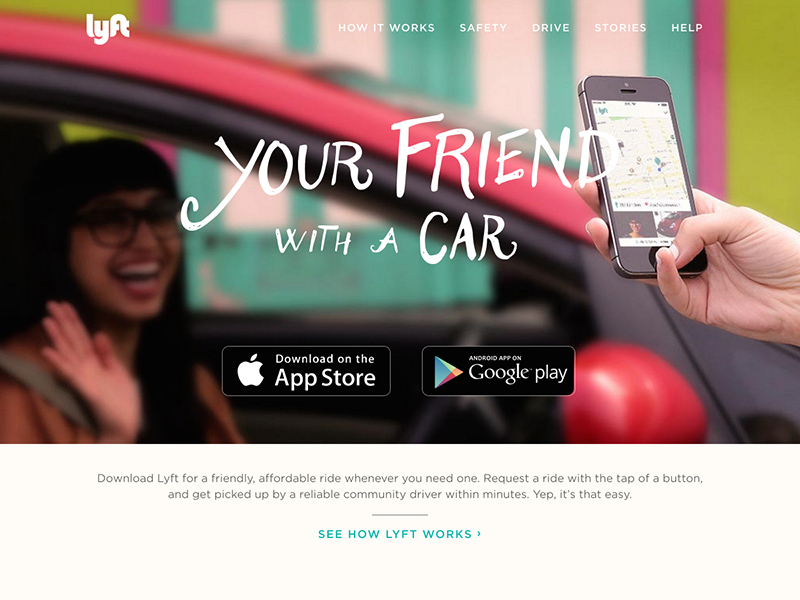
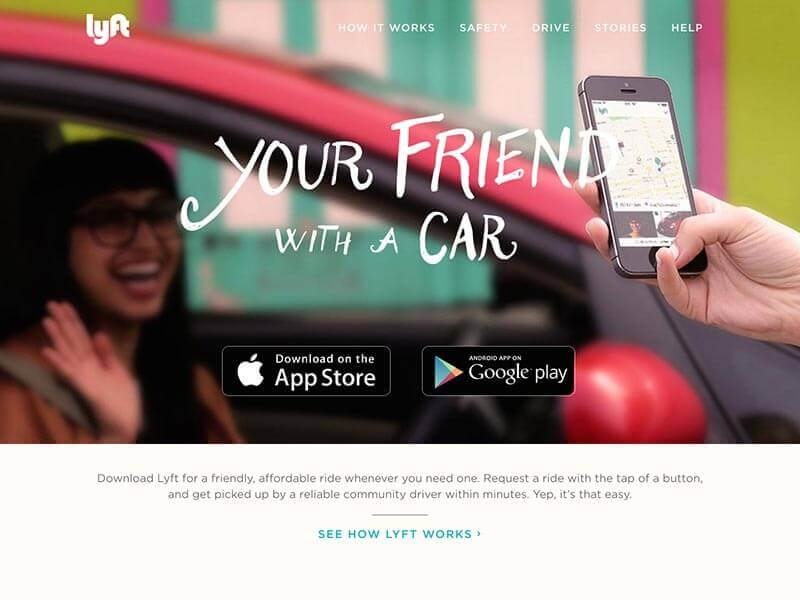
Optimized images, img > to picture (sourceset), webp (gulp)

diff --git a/src/index.html b/src/index.html
@@ -59,17 +59,32 @@
         <hr class="half-rule">
         <div class="row">
             <div class="col-sm-4">
-                <img alt="Sass and Less support" class="img-responsive" src="/assets/img/sass-less.png">
+                <picture>
+                    <source srcset="/dist/images/sass-less.png" media="(min-width: 40rem)">
+                    <source srcset="/dist/images/sass-less-m.png" media="(min-width: 22.5rem)">
+                    <source srcset="/dist/images/sass-less-s.png">
+                    <img alt="Sass and Less support" class="img-responsive" src="/dist/images/sass-less.png">
+                </picture>
                 <h3>Preprocessors</h3>
                 <p>Bootstrap ships with vanilla CSS, but its source code utilizes the two most popular CSS preprocessors, <a href="../css/#less">Less</a> and <a href="../css/#sass">Sass</a>. Quickly get started with precompiled CSS or build on the source.</p>
             </div>
             <div class="col-sm-4">
-                <img alt="Responsive across devices" class="img-responsive" src="/assets/img/devices.png">
+                <picture>
+                    <source srcset="/dist/images/devices.png" media="(min-width: 40rem)">
+                    <source srcset="/dist/images/devices-m.png" media="(min-width: 22.5rem)">
+                    <source srcset="/dist/images/devices-s.png">
+                    <img alt="Responsive across devices" class="img-responsive" src="/dist/images/devices.png">
+                </picture>
                 <h3>One framework, every device.</h3>
                 <p>Bootstrap easily and efficiently scales your websites and applications with a single code base, from phones to tablets to desktops with CSS media queries.</p>
             </div>
             <div class="col-sm-4">
-                <img alt="Components" class="img-responsive" src="/assets/img/components.png">
+                <picture>
+                    <source srcset="/dist/images/components.png" media="(min-width: 40rem)">
+                    <source srcset="/dist/images/components-m.png" media="(min-width: 22.5rem)">
+                    <source srcset="/dist/images/components-s.png">
+                    <img alt="Components" class="img-responsive" src="/dist/images/components.png">
+                </picture>
                 <h3>Full of features</h3>
                 <p>With Bootstrap, you get extensive and beautiful documentation for common HTML elements, dozens of custom HTML and CSS components, and awesome jQuery plugins.</p>
             </div>
@@ -86,22 +101,54 @@
         <div class="row bs-docs-featured-sites">
             <div class="col-xs-6 col-sm-3">
                 <a href="http://expo.getbootstrap.com/2014/10/29/lyft/" target="_blank" title="Lyft">
-                    <img alt="Lyft" src="/assets/img/expo-lyft.jpg" class="img-responsive">
+                    <picture>
+                        <source type="image/webp" srcset="/dist/images/expo-lyft.webp" media="(min-width: 40rem)">
+                        <source type="image/webp" srcset="/dist/images/expo-lyft-m.webp" media="(min-width: 22.5rem)">
+                        <source type="images/webp" srcset="/dist/images/expo-lyft-s.webp">
+                        <source srcset="/dist/images/expo-lyft.jpg" media="(min-width: 40rem)">
+                        <source srcset="/dist/images/expo-lyft-m.jpg" media="(min-width: 22.5rem)">
+                        <source srcset="/dist/images/expo-lyft-s.jpg">
+                        <img class="img-responsive" alt="Lyft" src="/dist/images/expo-lyft.jpg">
+                    </picture>
                 </a>
             </div>
             <div class="col-xs-6 col-sm-3">
                 <a href="http://expo.getbootstrap.com/2014/09/30/vogue/" target="_blank" title="Vogue">
-                    <img alt="Vogue" class="img-responsive" src="/assets/img/expo-vogue.jpg">
+                    <picture>
+                        <source type="image/webp" srcset="/dist/images/expo-vogue.webp" media="(min-width: 40rem)">
+                        <source type="image/webp" srcset="/dist/images/expo-vogue-m.webp" media="(min-width: 22.5rem)">
+                        <source type="images/webp" srcset="/dist/images/expo-vogue-s.webp">
+                        <source srcset="/dist/images/expo-vogue.jpg" media="(min-width: 40rem)">
+                        <source srcset="/dist/images/expo-vogue-m.jpg" media="(min-width: 22.5rem)">
+                        <source srcset="/dist/images/expo-vogue-s.jpg">
+                        <img class="img-responsive" alt="Vogue" src="/dist/images/expo-vogue.jpg">
+                    </picture>
                 </a>
             </div>
             <div class="col-xs-6 col-sm-3">
                 <a href="http://expo.getbootstrap.com/2014/03/13/riot-design/" target="_blank" title="Riot Design">
-                    <img alt="Riot Design" class="img-responsive" src="/assets/img/expo-riot.jpg">
+                    <picture>
+                        <source type="image/webp" srcset="/dist/images/expo-riot.webp" media="(min-width: 40rem)">
+                        <source type="image/webp" srcset="/dist/images/expo-riot-m.webp" media="(min-width: 22.5rem)">
+                        <source type="images/webp" srcset="/dist/images/expo-riot-s.webp">
+                        <source srcset="/dist/images/expo-riot.jpg" media="(min-width: 40rem)">
+                        <source srcset="/dist/images/expo-riot-m.jpg" media="(min-width: 22.5rem)">
+                        <source srcset="/dist/images/expo-riot-s.jpg">
+                        <img class="img-responsive" alt="Riot" src="/dist/images/expo-riot.jpg">
+                    </picture>
                 </a>
             </div>
             <div class="col-xs-6 col-sm-3">
                 <a href="http://expo.getbootstrap.com/2014/02/12/newsweek/" target="_blank" title="Newsweek">
-                    <img alt="Newsweek" class="img-responsive" src="/assets/img/expo-newsweek.jpg">
+                    <picture>
+                        <source type="image/webp" srcset="/dist/images/expo-newsweek.webp" media="(min-width: 40rem)">
+                        <source type="image/webp" srcset="/dist/images/expo-newsweek-m.webp" media="(min-width: 22.5rem)">
+                        <source type="images/webp" srcset="/dist/images/expo-newsweek-s.webp">
+                        <source srcset="/dist/images/expo-newsweek.jpg" media="(min-width: 40rem)">
+                        <source srcset="/dist/images/expo-newsweek-m.jpg" media="(min-width: 22.5rem)">
+                        <source srcset="/dist/images/expo-newsweek-s.jpg">
+                        <img class="img-responsive" alt="Newsweek" src="/dist/images/expo-newsweek.jpg">
+                    </picture>
                 </a>
             </div>
         </div>

diff --git a/gulpfile.js b/gulpfile.js
@@ -1,0 +1,19 @@
+var gulp = require('gulp');
+const imagemin = require('gulp-imagemin');
+var webp = require('gulp-webp');
+
+gulp.task('imageToWebp', () => {
+    gulp.src('src/dist/images')
+    .pipe(webp())
+    .pipe(gulp.dest('src/dist/images'))
+});
+
+gulp.task('imagemin', () => {
+    gulp.src('./src/assets/img/*')
+    .pipe(imagemin())
+    .pipe(gulp.dest('src/dist/images'))
+
+});
+
+gulp.task('default', ['imagemin', 'imageToWebp']);
+

diff --git a/src/_base/layout.html b/src/_base/layout.html
@@ -18,6 +18,8 @@
     <script src="/dist/js/bootstrap.js"></script>
     <script src="/assets/js/docs.min.js"></script>
     <script src="/assets/js/ie10-viewport-bug-workaround.js"></script>
+
     {% block scripts_extra %}{% endblock %}
+
 </body>
 </html>
